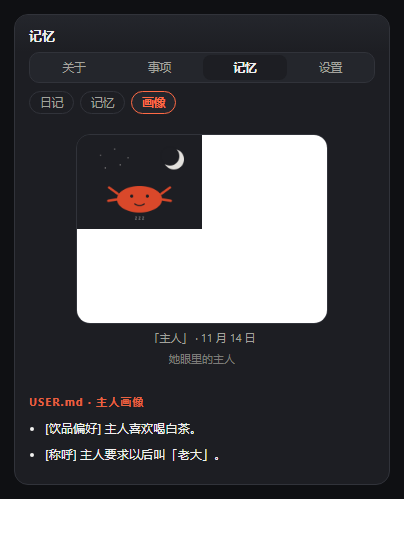
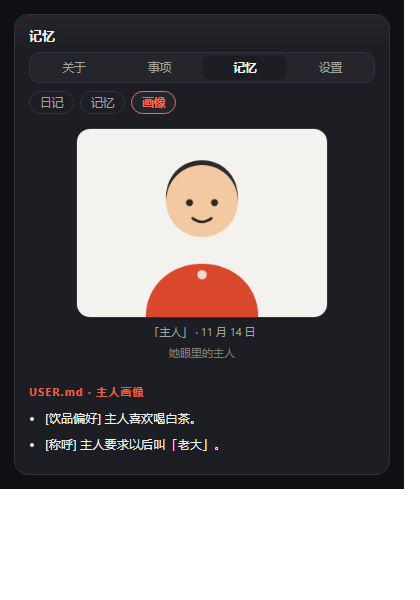
fix: 栅格化按 SVG viewBox 定窗口尺寸（之前截图是整个 640×480 视口，图只占左上角）

diff --git a/client/client.js b/client/client.js
@@ -1410,7 +1410,7 @@ window.__ModuleLoader__.load({
       '@keyframes dsc-kaka-float{0%,100%{transform:translateY(0)}50%{transform:translateY(-2.5px)}}',
       /* ── 画像 ── */
       '.dsc-kaka-portrait{display:flex;flex-direction:column;align-items:center;gap:8px;padding:6px 0 2px}',
-      '.dsc-kaka-portrait img{width:100%;max-width:250px;border-radius:14px;border:1px solid var(--dsw-alias-border-l1);background:var(--dsw-alias-bg-layer-2);box-shadow:0 8px 22px rgba(0,0,0,.14)}',
+      '.dsc-kaka-portrait img{width:100%;max-width:250px;object-fit:contain;border-radius:14px;border:1px solid var(--dsw-alias-border-l1);background:var(--dsw-alias-bg-layer-2);box-shadow:0 8px 22px rgba(0,0,0,.14)}',
       '.dsc-kaka-portrait figcaption{font-size:11px;color:var(--dsw-alias-label-secondary)}',
       '.dsc-kaka-portrait-empty{display:flex;flex-direction:column;align-items:center;gap:8px;padding:22px 0;color:var(--dsw-alias-label-secondary);font-size:12px;text-align:center}',
       '.dsc-kaka-portrait-empty img{width:56px;height:56px;opacity:.4}',
